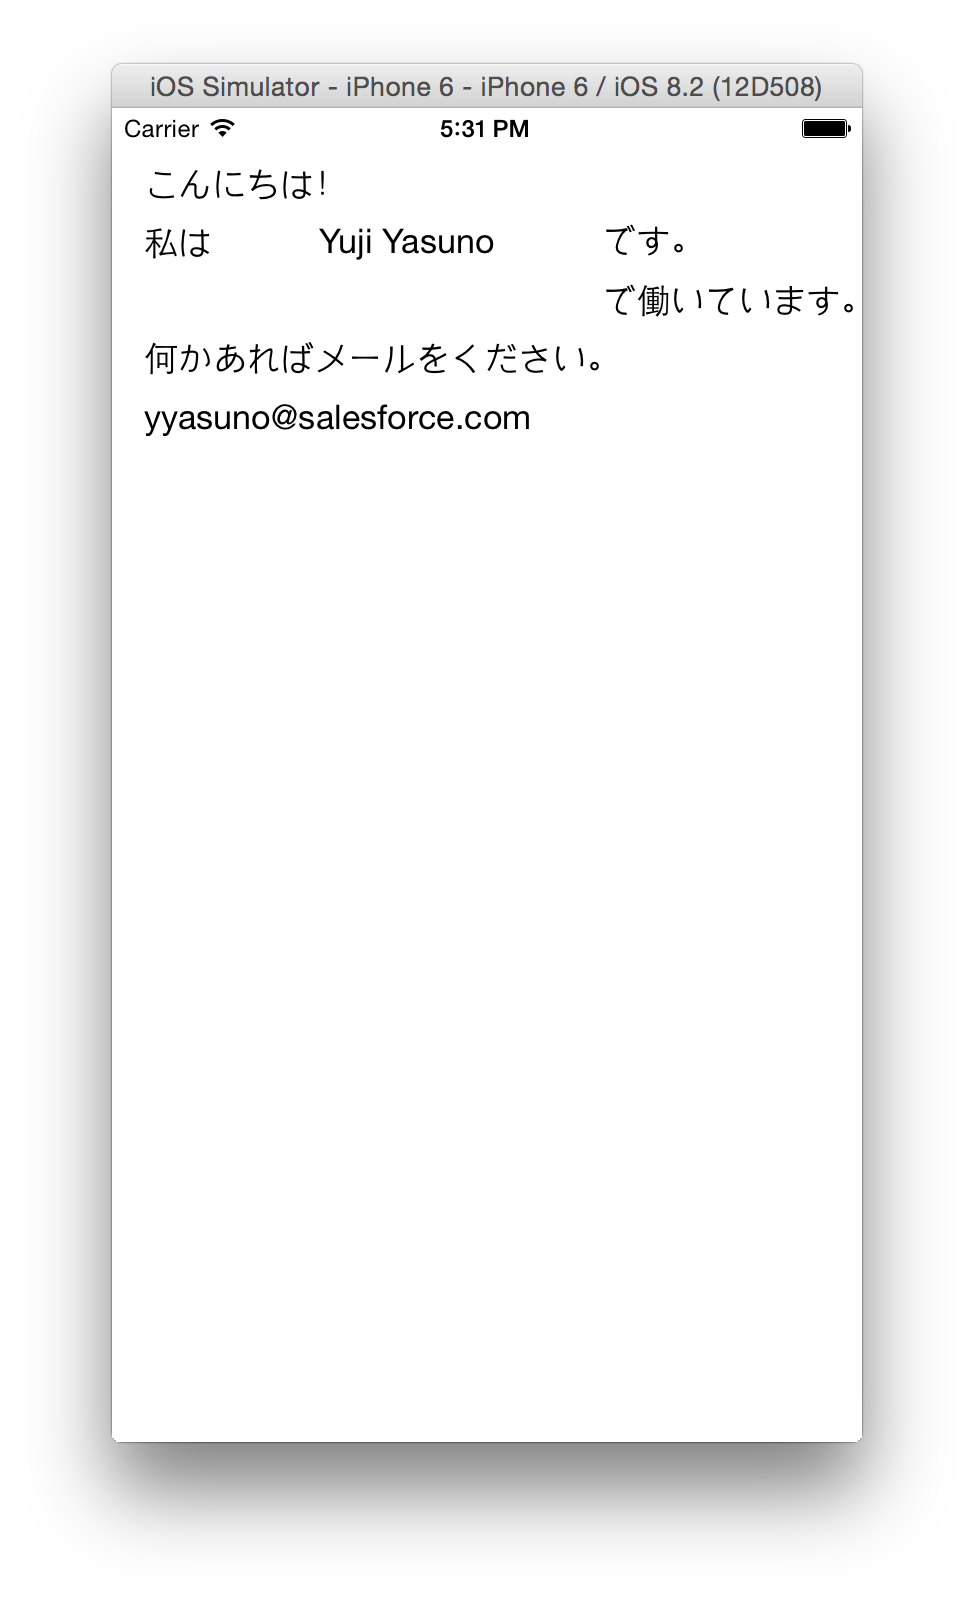
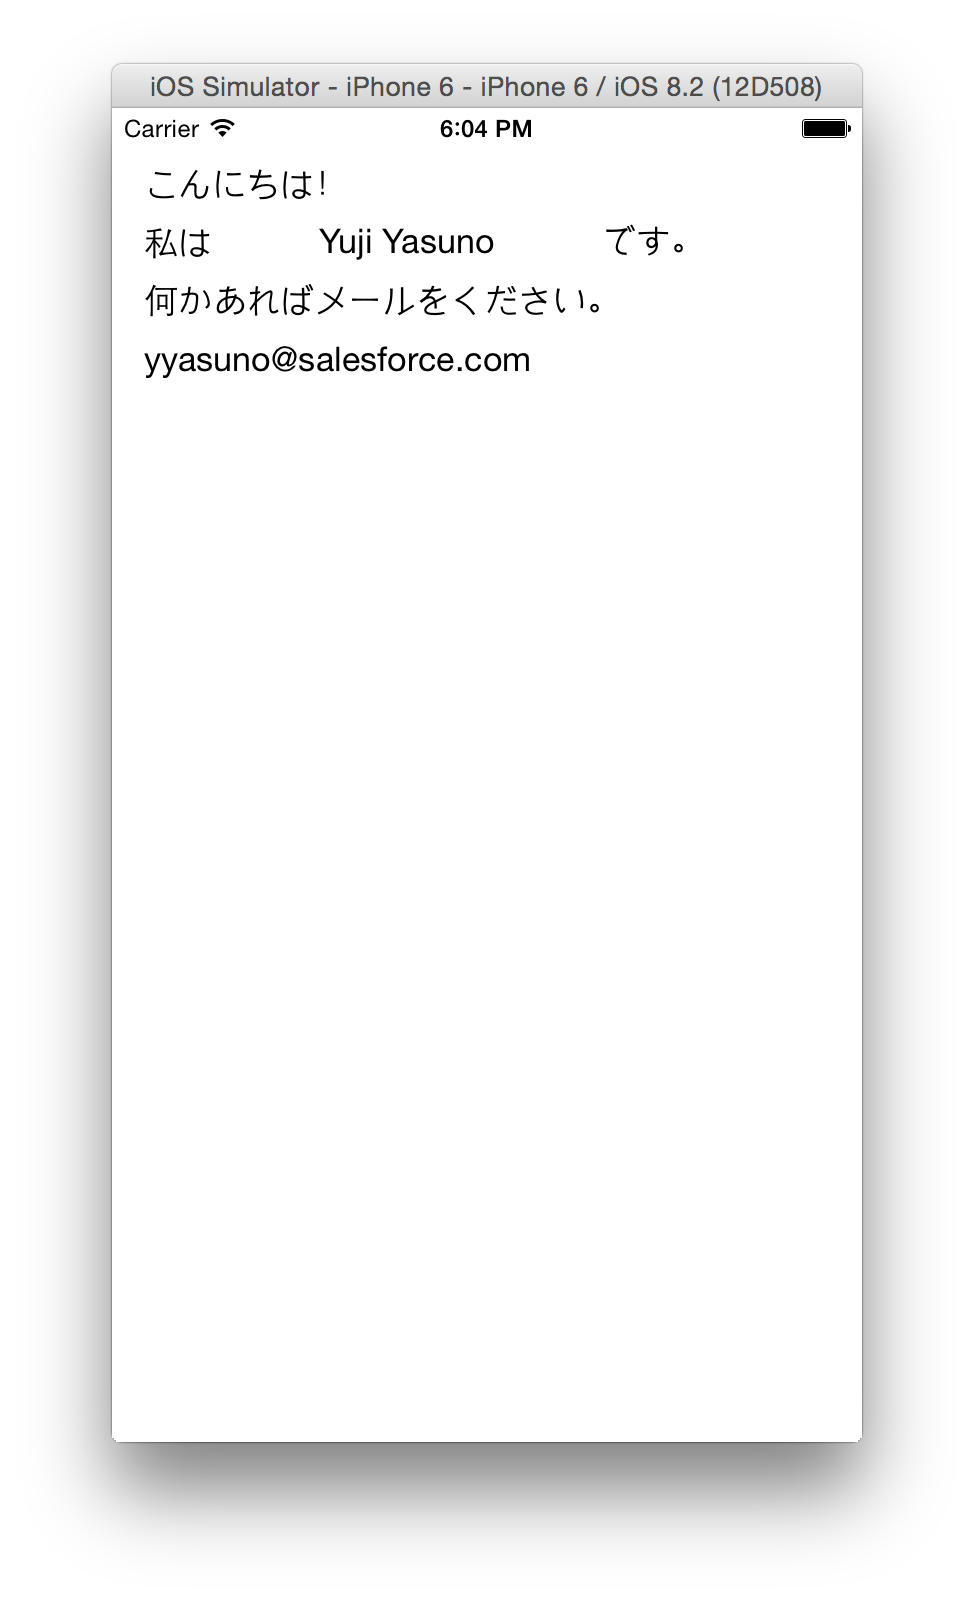
Change Screenshot

diff --git a/UserDetail/UserDetail/ViewController.swift b/UserDetail/UserDetail/ViewController.swift
@@ -11,7 +11,6 @@ import UIKit
 class ViewController: UIViewController {
 
     @IBOutlet weak var fullName: UILabel!
-    @IBOutlet weak var organization: UILabel!
     @IBOutlet weak var mail: UILabel!
     
     
@@ -20,7 +19,6 @@ class ViewController: UIViewController {
         
         let user = SFUserAccountManager.sharedInstance().currentUser
         self.fullName.text = user.fullName
-        self.organization.text = user.organizationName
         self.mail.text = user.email
         
     }
